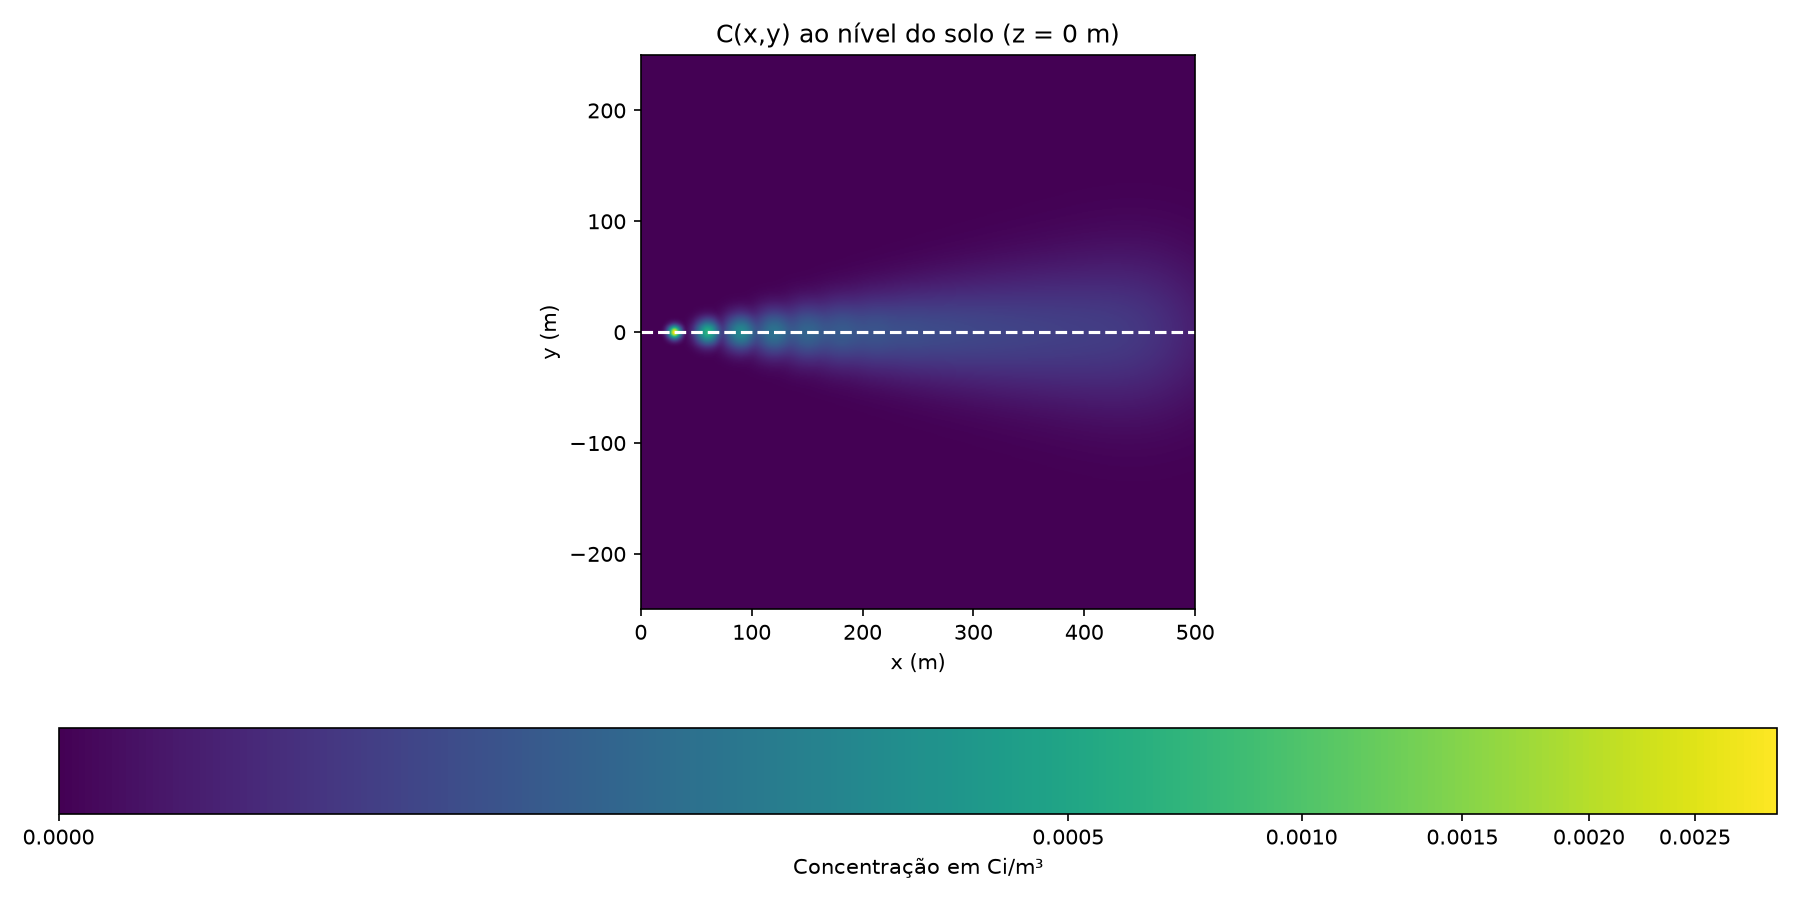
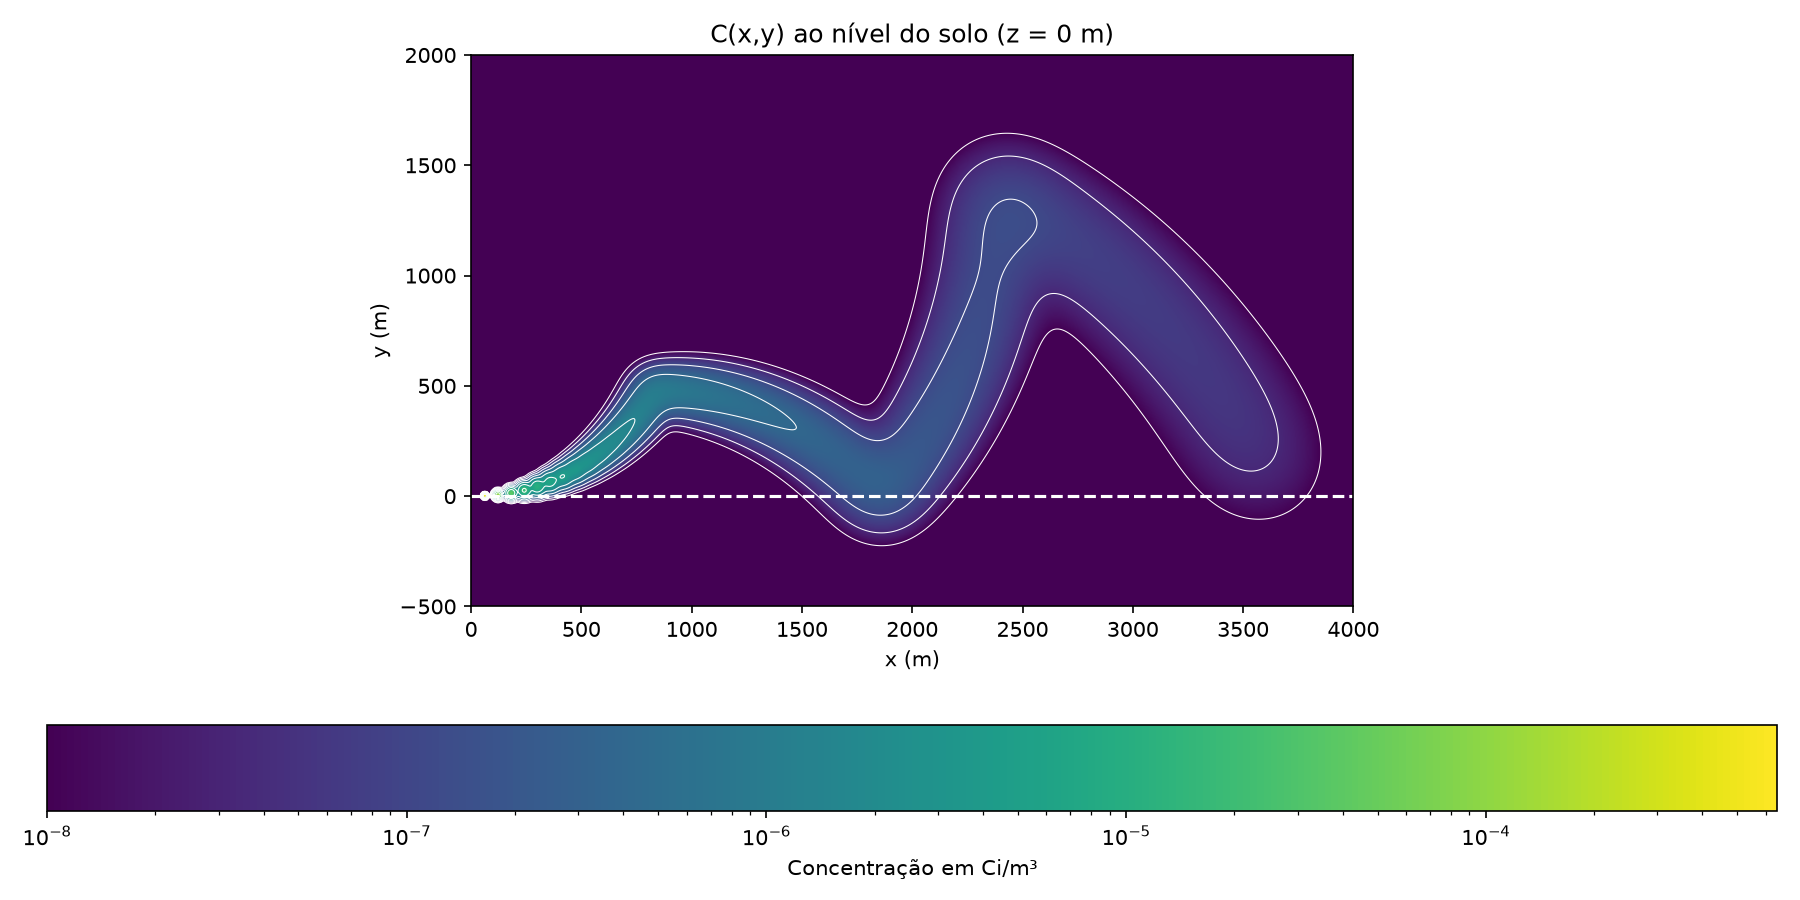
escala log implementada

diff --git a/plotting.py b/plotting.py
@@ -2,7 +2,7 @@ from pathlib import Path
 
 import matplotlib.pyplot as plt
 import numpy as np
-from matplotlib.colors import PowerNorm
+from matplotlib.colors import LogNorm, PowerNorm
 
 from config import Config
 
@@ -17,6 +17,7 @@ def plotar_heatmap_xy(
     evento=None,
     exibir_maximo=True,
     campo_acumulado=False,
+    vmax_referencia=None,
 ):
     """Plota a concentração no plano XY, ao nível do solo (z = 0)."""
     x_i, y_i = np.unravel_index(np.argmax(concentracoes_xy), concentracoes_xy.shape)
@@ -46,6 +47,7 @@ def plotar_heatmap_xy(
         ),
         hlines=[(0, "--", "white")],
         campo_acumulado=campo_acumulado,
+        vmax_referencia=vmax_referencia,
     )
 
 
@@ -60,7 +62,7 @@ def apresentar_maximo_campo(concentracoes_xy, eixo_x, eixo_y):
     print(f"Ocorre em x = {eixo_x[x_i]:.2f} m e y = {eixo_y[y_i]:.2f} m\n")
 
 
-def plotar_campo_acumulado(concentracoes_xy, eixo_x, eixo_y):
+def plotar_campo_acumulado(concentracoes_xy, eixo_x, eixo_y, vmax_referencia):
     """Gera e mantém aberta a figura do campo acumulado no plano XY."""
     plotar_heatmap_xy(
         concentracoes_xy,
@@ -68,6 +70,7 @@ def plotar_campo_acumulado(concentracoes_xy, eixo_x, eixo_y):
         eixo_y,
         exibir_maximo=False,
         campo_acumulado=True,
+        vmax_referencia=vmax_referencia,
     )
 
 
@@ -82,6 +85,7 @@ def render_heatmap(
     hlines=None,
     vlines=None,
     campo_acumulado=False,
+    vmax_referencia=None,
 ):
     figura, eixo = plt.subplots(figsize=(12, 6), dpi=150)
     imagem = eixo.imshow(
@@ -89,7 +93,7 @@ def render_heatmap(
         origin="lower",
         extent=extent,
         aspect=aspect,
-        norm=PowerNorm(config.gamma),
+        norm=obter_normalizacao(vmax_referencia),
     )
     eixo.set_title(title)
     eixo.set_xlabel(xlabel)
@@ -102,6 +106,21 @@ def render_heatmap(
     if hlines is not None:
         for position, style, color in hlines:
             eixo.axhline(y=position, linestyle=style, color=color)
+
+    if config.usar_escala_logaritmica and config.exibir_contornos_logaritmicos:
+        niveis = np.geomspace(
+            config.vmin_logaritmico,
+            vmax_referencia,
+            config.quantidade_contornos_logaritmicos,
+        )
+        eixo.contour(
+            matrix,
+            levels=niveis,
+            origin="lower",
+            extent=extent,
+            colors="white",
+            linewidths=0.5,
+        )
 
     cbar = figura.colorbar(imagem, ax=eixo, orientation="horizontal")
     cbar.set_label(f"Concentração em {config.unidade}/m³")
@@ -133,3 +152,33 @@ def render_heatmap(
 
 def show_heatmap():
     plt.show()
+
+
+def obter_normalizacao(vmax_referencia):
+    """Retorna a normalização de cores configurada para os heatmaps."""
+    if not config.usar_escala_logaritmica:
+        return PowerNorm(config.gamma)
+
+    if vmax_referencia is None:
+        raise ValueError(
+            "A escala logarítmica requer um vmax de referência do campo acumulado"
+        )
+
+    if config.vmin_logaritmico <= 0:
+        raise ValueError("vmin_logaritmico deve ser maior que zero")
+
+    if vmax_referencia <= config.vmin_logaritmico:
+        raise ValueError(
+            "O vmax de referência deve ser maior que vmin_logaritmico para "
+            "usar escala logarítmica"
+        )
+
+    if (
+        config.exibir_contornos_logaritmicos
+        and config.quantidade_contornos_logaritmicos < 2
+    ):
+        raise ValueError(
+            "quantidade_contornos_logaritmicos deve ser pelo menos 2"
+        )
+
+    return LogNorm(vmin=config.vmin_logaritmico, vmax=vmax_referencia)

diff --git a/main.py b/main.py
@@ -22,8 +22,11 @@ if __name__ == "__main__":
     scenario = TemporalScenario(config)
 
     concentracoes_xy = None
+    vmax_referencia = None
 
     lista_puffs: List[Puff] = []
+    
+    ultimo_angulo = 0
 
     for evento in range(config.total_eventos):
 
@@ -36,7 +39,16 @@ if __name__ == "__main__":
 
         atividade_emitida = config.emissao_teste_fixo
         velocidade_vento = config.vento_teste_fixo
-        angulo_vento_variante_teste = config.angulo_teste_fixo + evento*0
+        
+        if evento / config.total_eventos < 0.25:
+            ultimo_angulo = ultimo_angulo + 2
+        elif evento / config.total_eventos < 0.5:
+            ultimo_angulo = ultimo_angulo - 2
+        elif evento / config.total_eventos < 0.75:
+            ultimo_angulo = ultimo_angulo + 2
+        else:
+            ultimo_angulo = ultimo_angulo - 2
+
         classe_estabilidade = config.classe_teste_fixo
 
         puff = Puff(
@@ -44,7 +56,7 @@ if __name__ == "__main__":
             idade = idade,
             atividade_emitida = atividade_emitida,
             velocidade_vento = velocidade_vento,
-            angulo_vento = angulo_vento_variante_teste,
+            angulo_vento = ultimo_angulo,
             classe_estabilidade = classe_estabilidade
         )
 
@@ -74,6 +86,7 @@ if __name__ == "__main__":
             )
 
         if concentracoes_xy is not None:
+            vmax_referencia = float(np.max(concentracoes_xy))
             print("Campo resultante acumulado com sucesso\n")
             plotting.apresentar_maximo_campo(
                 concentracoes_xy,
@@ -83,7 +96,8 @@ if __name__ == "__main__":
             plotting.plotar_campo_acumulado(
                 concentracoes_xy,
                 eixo_x,
-                eixo_y
+                eixo_y,
+                vmax_referencia
             )
 
         fim_clock_1 = datetime.now()
@@ -91,7 +105,13 @@ if __name__ == "__main__":
         print(f"Fim 1 : {fim_clock_1.strftime('%Y-%m-%d %H:%M:%S')}")
         print(f"Tempo de processamento 1 : {fim_1 - inicio:.2f} segundos")   
 
-    if config.simular_evolucao_temporal:
+    if config.simular_evolucao_temporal and vmax_referencia is None:
+        print(
+            "A evolução temporal requer a simulação acumulada para definir "
+            "o vmax de referência. Habilite simular_acumulacao_resultante."
+        )
+
+    if config.simular_evolucao_temporal and vmax_referencia is not None:
 
         for evento in range(config.total_eventos):
 
@@ -141,7 +161,8 @@ if __name__ == "__main__":
                 eixo_y,
                 evento + 1,
                 exibir_maximo=False,
-                campo_acumulado=False
+                campo_acumulado=False,
+                vmax_referencia=vmax_referencia,
             )
 
         fim_clock_2 = datetime.now()

diff --git a/config.py b/config.py
@@ -17,26 +17,29 @@ class Config:
 
     seed: int = 1
 
-    total_eventos: int = 15             #[eventos]
-    intervalo_tempo_evento: int = 30    #[segundos, para cada evento]
+    total_eventos: int = 60             #[eventos]
+    intervalo_tempo_evento: int = 60    #[segundos, para cada evento]
 
     vento_teste_fixo: int = 1       #modulo da velocidade do vento, em m/min
-    angulo_teste_fixo: int = 0      #angulo do vento em graus (-360 a 360)
     emissao_teste_fixo: int = 1         
     classe_teste_fixo: str = "C"
 
-    dim_eixo_x_pos: int = 500       # [m] inteiro >= 1 e multiplo de passo_x
+    dim_eixo_x_pos: int = 4000      # [m] inteiro >= 1 e multiplo de passo_x
     dim_eixo_x_neg: int = 0         # [m] inteiro >= 0 e multiplo de passo_x
-    dim_eixo_y_pos: int = 250       # [m] inteiro >= 1 e multiplo de passo_y
-    dim_eixo_y_neg: int = 250       # [m] inteiro >= 0 e multiplo de passo_y
-    passo_x: int = 1                # [m] inteiro >= 1
-    passo_y: int = 1                # [m] inteiro >= 1
-    limite_pontos: int = 500000     # limite de pontos por malha calculada
+    dim_eixo_y_pos: int = 2000      # [m] inteiro >= 1 e multiplo de passo_y
+    dim_eixo_y_neg: int = 500       # [m] inteiro >= 0 e multiplo de passo_y
+    passo_x: int = 5                # [m] inteiro >= 1
+    passo_y: int = 5                # [m] inteiro >= 1
+    limite_pontos: int = 1000000    # limite de pontos por malha calculada
 
     simular_acumulacao_resultante: bool = True
     simular_evolucao_temporal: bool = True
 
-    gamma: float = 0.3              # 0.2 a 0.8
+    gamma: float = 0.3              # 0.3 a 0.7; usado apenas na escala convencional
+    usar_escala_logaritmica: bool = True
+    vmin_logaritmico: float = 1e-8
+    exibir_contornos_logaritmicos: bool = True
+    quantidade_contornos_logaritmicos: int = 10
 
     diretorio_dados_parciais: str = "dados_parciais"
     diretorio_plotagens_parciais: str = "plotagens_parciais"
